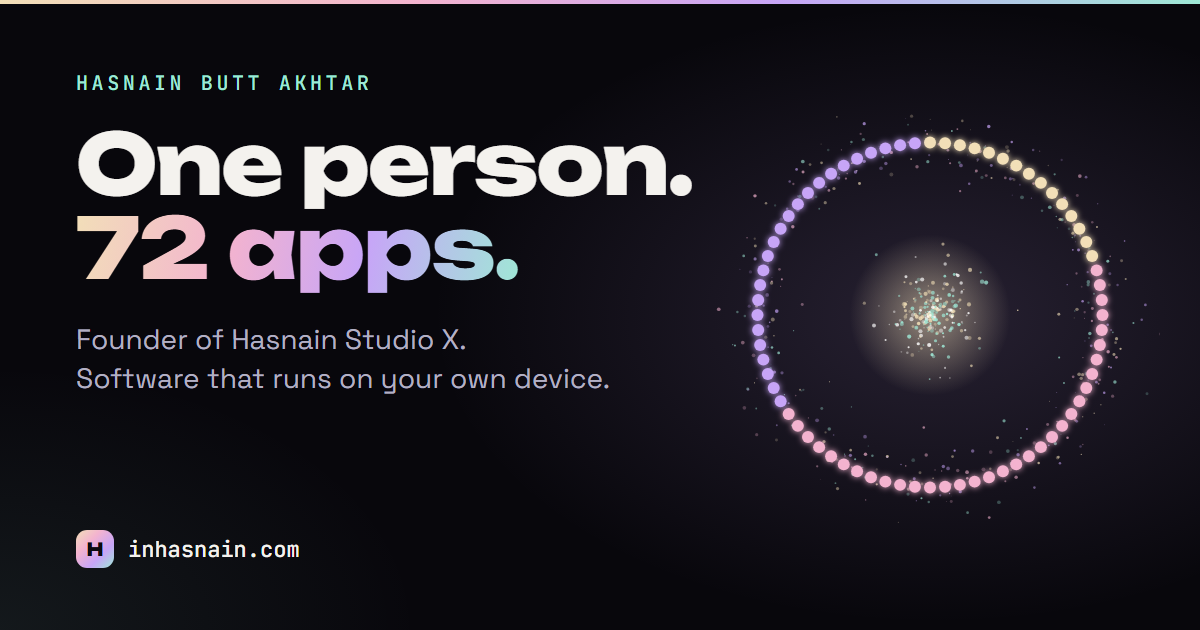
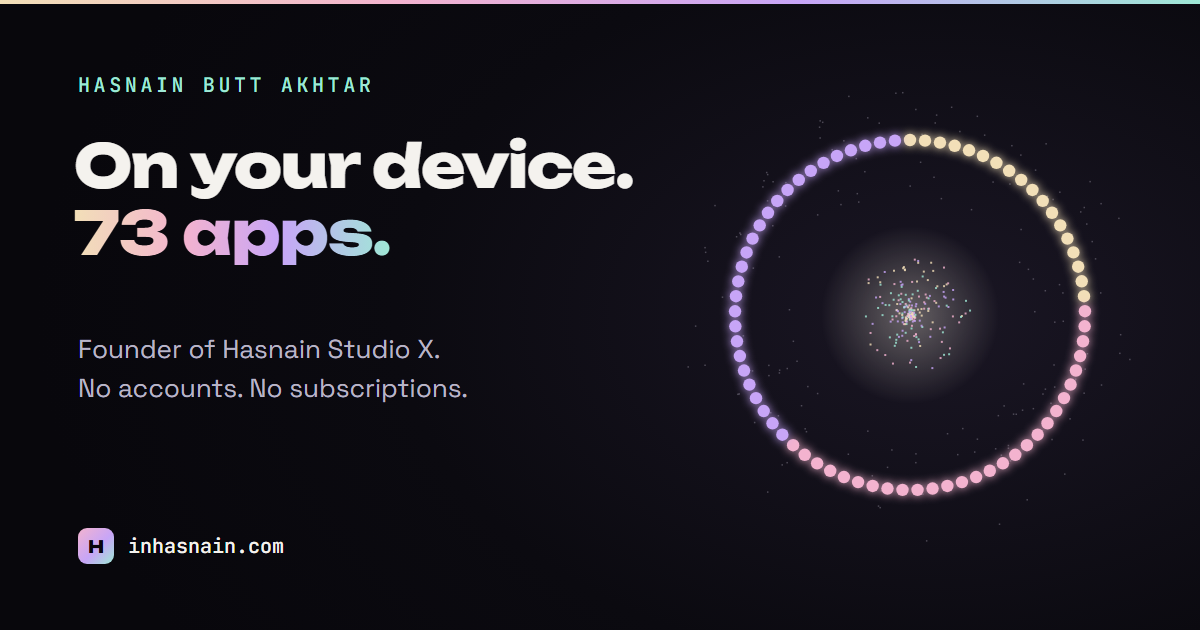
Lead with what the apps do, not how many people make them
The hero, story, stats, principles and press bio framed the studio as one
person working alone. Lead with on-device, no-account, no-subscription
instead, describe the studio as independent and founder-led, and swap the
"made by one person" rule for "sold only through official stores". The
share image now matches and shows the current count.

diff --git a/index.html b/index.html
@@ -4,7 +4,7 @@
 <meta charset="utf-8">
 <meta name="viewport" content="width=device-width, initial-scale=1, viewport-fit=cover">
 <title>Hasnain Butt Akhtar - Founder of Hasnain Studio X</title>
-<meta name="description" content="Hasnain Butt Akhtar designs, builds and ships software independently as Hasnain Studio X: over seventy Windows and Android apps that run on your own device.">
+<meta name="description" content="Hasnain Butt Akhtar is the founder of Hasnain Studio X, an independent studio with over seventy Windows and Android apps that run on your own device.">
 <link rel="canonical" href="https://inhasnain.com/">
 <meta name="theme-color" content="#08070c">
 <meta name="color-scheme" content="dark">
@@ -12,9 +12,9 @@
 <meta property="og:type" content="profile">
 <meta property="og:site_name" content="Hasnain Butt Akhtar">
 <meta property="og:title" content="Hasnain Butt Akhtar - Founder of Hasnain Studio X">
-<meta property="og:description" content="One person, seventy-plus apps. The story behind Hasnain Studio X.">
+<meta property="og:description" content="Seventy-plus apps that stay on your device. The story behind Hasnain Studio X.">
 <meta property="og:url" content="https://inhasnain.com/">
-<meta property="og:image" content="https://inhasnain.com/img/og.png">
+<meta property="og:image" content="https://inhasnain.com/img/og.png?v=2">
 <meta name="twitter:card" content="summary_large_image">
 
 <link rel="icon" href="favicon.svg" type="image/svg+xml">
@@ -100,8 +100,8 @@
       <span class="ribbon-go" aria-hidden="true">&rarr;</span>
     </a>
     <p class="eyebrow">Hasnain Butt Akhtar</p>
-    <h1 class="display">One person.<br><span class="grad"><span data-count>73</span> apps.</span></h1>
-    <p class="lede">I design, build and ship software on my own, under the name Hasnain Studio X. Apps that run on your own device, keep your data private, and are never sold by subscription.</p>
+    <h1 class="display">On your device.<br><span class="grad"><span data-count>73</span> apps.</span></h1>
+    <p class="lede">I founded and run Hasnain Studio X, an independent software studio. Its apps run on your own device, need no account, keep your data private, and are never sold by subscription.</p>
     <div class="actions">
       <a class="btn" href="#story">Read the story</a>
       <a class="btn btn-ghost" href="https://hasnainstudiox.com/">Visit the studio</a>
@@ -142,7 +142,7 @@
   <section class="story" id="story" data-shape="mark">
     <div class="wrap">
       <p class="eyebrow">The story</p>
-      <h2 class="title">Built alone, <span class="grad">on purpose.</span></h2>
+      <h2 class="title">Independent, <span class="grad">on purpose.</span></h2>
 
       <ol class="chapters">
         <li class="chapter reveal">
@@ -157,8 +157,8 @@
         </li>
         <li class="chapter reveal">
           <span class="num">03</span>
-          <h3>One developer, every part</h3>
-          <p>There is no team here. The code, the interface, the icon, the Store listing, the privacy policy, this website and the reply to your email are all mine. It is slower than having a team, and it means every app has to earn its place, but nothing gets lost between departments.</p>
+          <h3>You deal with the person who built it</h3>
+          <p>The studio is founder-led and answers to no investors. The person who reads your email is the person responsible for the app, so a bug report reaches the one who can fix it, and every new app has to earn its place next to the ones already there.</p>
         </li>
         <li class="chapter reveal">
           <span class="num">04</span>
@@ -179,7 +179,7 @@
       <div class="stat reveal"><strong data-count>73</strong><span>apps shipped</span></div>
       <div class="stat reveal"><strong>3</strong><span>suites: System, AI Studio, Creative</span></div>
       <div class="stat reveal"><strong>2</strong><span>platforms: Windows and Android</span></div>
-      <div class="stat reveal"><strong>1</strong><span>developer</span></div>
+      <div class="stat reveal"><strong>0</strong><span>subscriptions</span></div>
     </div>
   </section>
 
@@ -201,8 +201,8 @@
           <p>A fair price, paid once, through the store you already trust. Windows apps start with a free trial, and Android apps are free with an optional one-time Pro unlock. No subscriptions.</p>
         </article>
         <article class="card reveal" style="--tint: var(--rose)">
-          <h3>Made by one person</h3>
-          <p>When you write in, the person who reads it is the person who built the app. That is how problems get fixed quickly.</p>
+          <h3>Sold only through official stores</h3>
+          <p>Every app is bought through the Microsoft Store or Google Play, never a download link on a website, so you get their security checks, automatic updates and refund rules.</p>
         </article>
       </div>
     </div>
@@ -291,7 +291,7 @@
         <button class="btn btn-small btn-ghost copy" data-copy="bio-short">Copy short bio</button>
         <h3 class="label">Long bio</h3>
         <div id="bio-long">
-        <p class="bio">Hasnain Butt Akhtar is an independent software developer in England and the founder of Hasnain Studio X, a one-person studio publishing Windows and Android software. Working alone on every part, from code and design to support, the studio has released <span data-count>73</span> applications across three suites: System, AI Studio and Creative. They are sold through the Microsoft Store and Google Play.</p>
+        <p class="bio">Hasnain Butt Akhtar is an independent software developer in England and the founder of Hasnain Studio X, an independent, founder-led studio publishing Windows and Android software. The studio has released <span data-count>73</span> applications across three suites: System, AI Studio and Creative. They are sold through the Microsoft Store and Google Play.</p>
         <p class="bio">The studio builds against the direction most software has taken. Its apps process files on the user's own device rather than on a server, the studio collects no personal data and asks for no account, and nothing is sold by subscription. HSX Apps Hub, free on the Microsoft Store, gathers the apps a person owns into a single window. Hasnain Studio X is a trade mark of Hasnain Studio X, with a UK trade mark application filed in August 2026.</p>
         <button class="btn btn-small btn-ghost copy" data-copy="bio-long">Copy long bio</button>
         </div>
